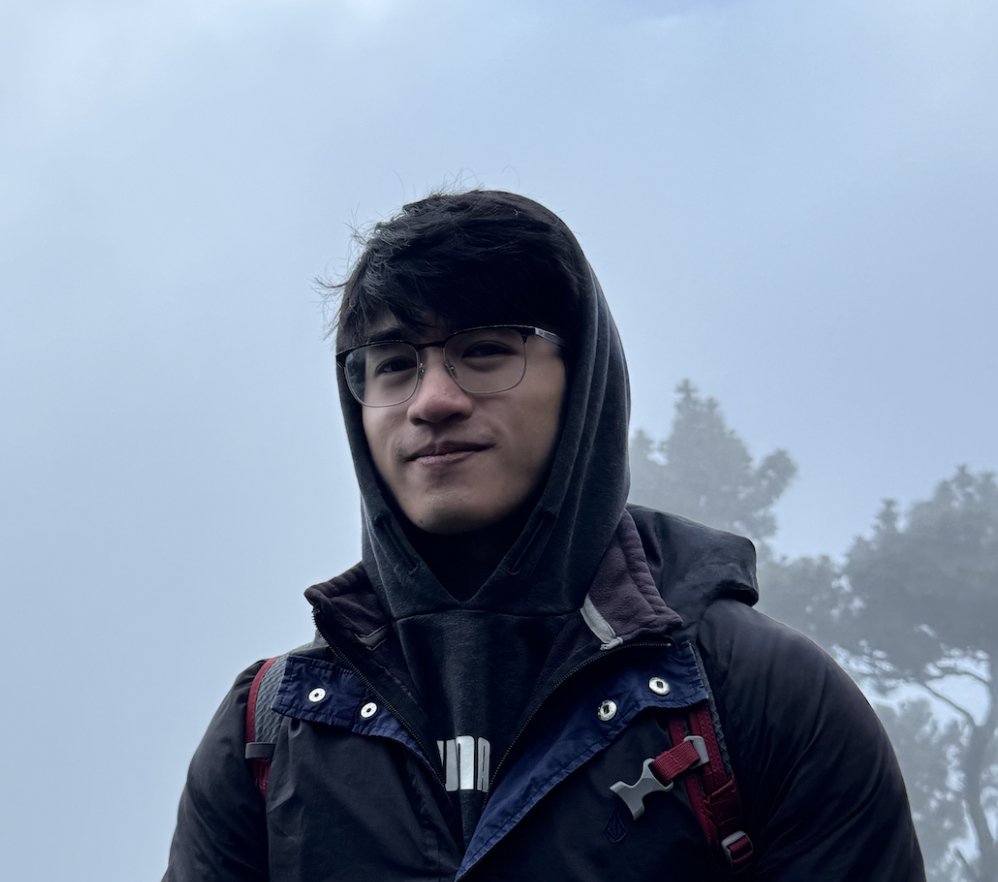
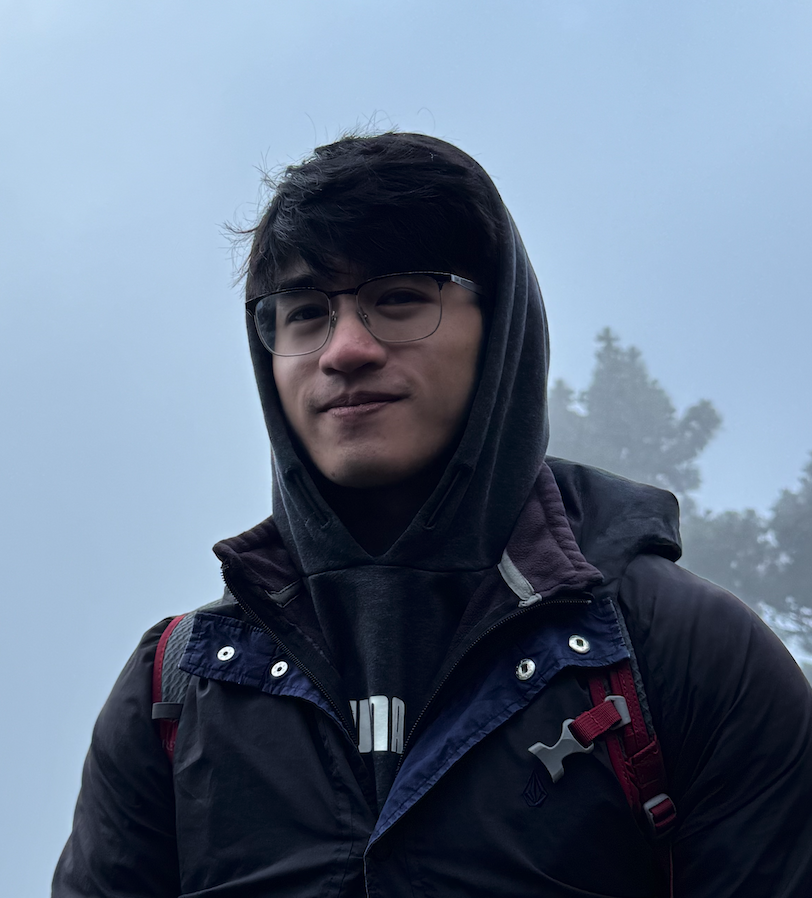
Adjustments to pfps

diff --git a/app/(pages)/(home)/page.tsx b/app/(pages)/(home)/page.tsx
@@ -40,8 +40,8 @@ function TeamMember({
   hideProfilePicture?: boolean;
   role?: string;
 }) {
-  const imageSizeClass = size === 'small' ? 'w-24 h-24' : 'w-32 h-32';
-  const imageSize = size === 'small' ? 96 : 128;
+  const imageSizeClass = size === 'small' ? 'w-24 h-24' : 'w-40 h-40';
+  const imageSize = size === 'small' ? 96 : 160;
   const nameClass = size === 'small' ? 'font-medium' : 'text-xl font-bold';
   const yearClass =
     size === 'small' ? 'text-sm text-gray-600' : 'text-gray-600 mb-2';
@@ -110,14 +110,14 @@ function TeamMember({
 // Organization component for consistent organization display
 function Organization({
   name,
-  description,
+  description = '',
 }: {
   name: string;
-  description: string;
+  description?: string;
 }) {
   return (
-    <div className='card rounded-lg bg-gray-100 p-6 text-center shadow'>
-      <h5 className='mb-2 text-lg font-bold'>{name}</h5>
+    <div className='card flex flex-col items-center justify-center space-y-2 rounded-lg bg-gray-100 p-6 text-center shadow'>
+      <h5 className='text-lg font-bold'>{name}</h5>
       <p className='text-sm text-gray-600'>{description}</p>
     </div>
   );
@@ -305,7 +305,7 @@ export default function Home() {
           <div className='divider' />
 
           <p className='text-gray-600'>
-            Feel free to read the business research and proposals behind the
+            Feel free to read the research, ideas, and proposals behind the
             project.
             <br />
             <Link
@@ -333,7 +333,7 @@ export default function Home() {
               name='Kevin Monisit'
               classYear="'25"
               major='CS'
-              imageUrl='/landing/kevin.png'
+              imageUrl='/landing/kevi.png'
               personalUrl='https://kevinmonisit.me'
               linkedInUrl='https://www.linkedin.com/in/kevinmonisit/'
               role='Team Lead'
@@ -429,7 +429,7 @@ export default function Home() {
 
                 <Organization
                   name='Rutgers Computer Science Department'
-                  description='Faculty and staff'
+                  // description=''
                 />
               </div>
             </div>
